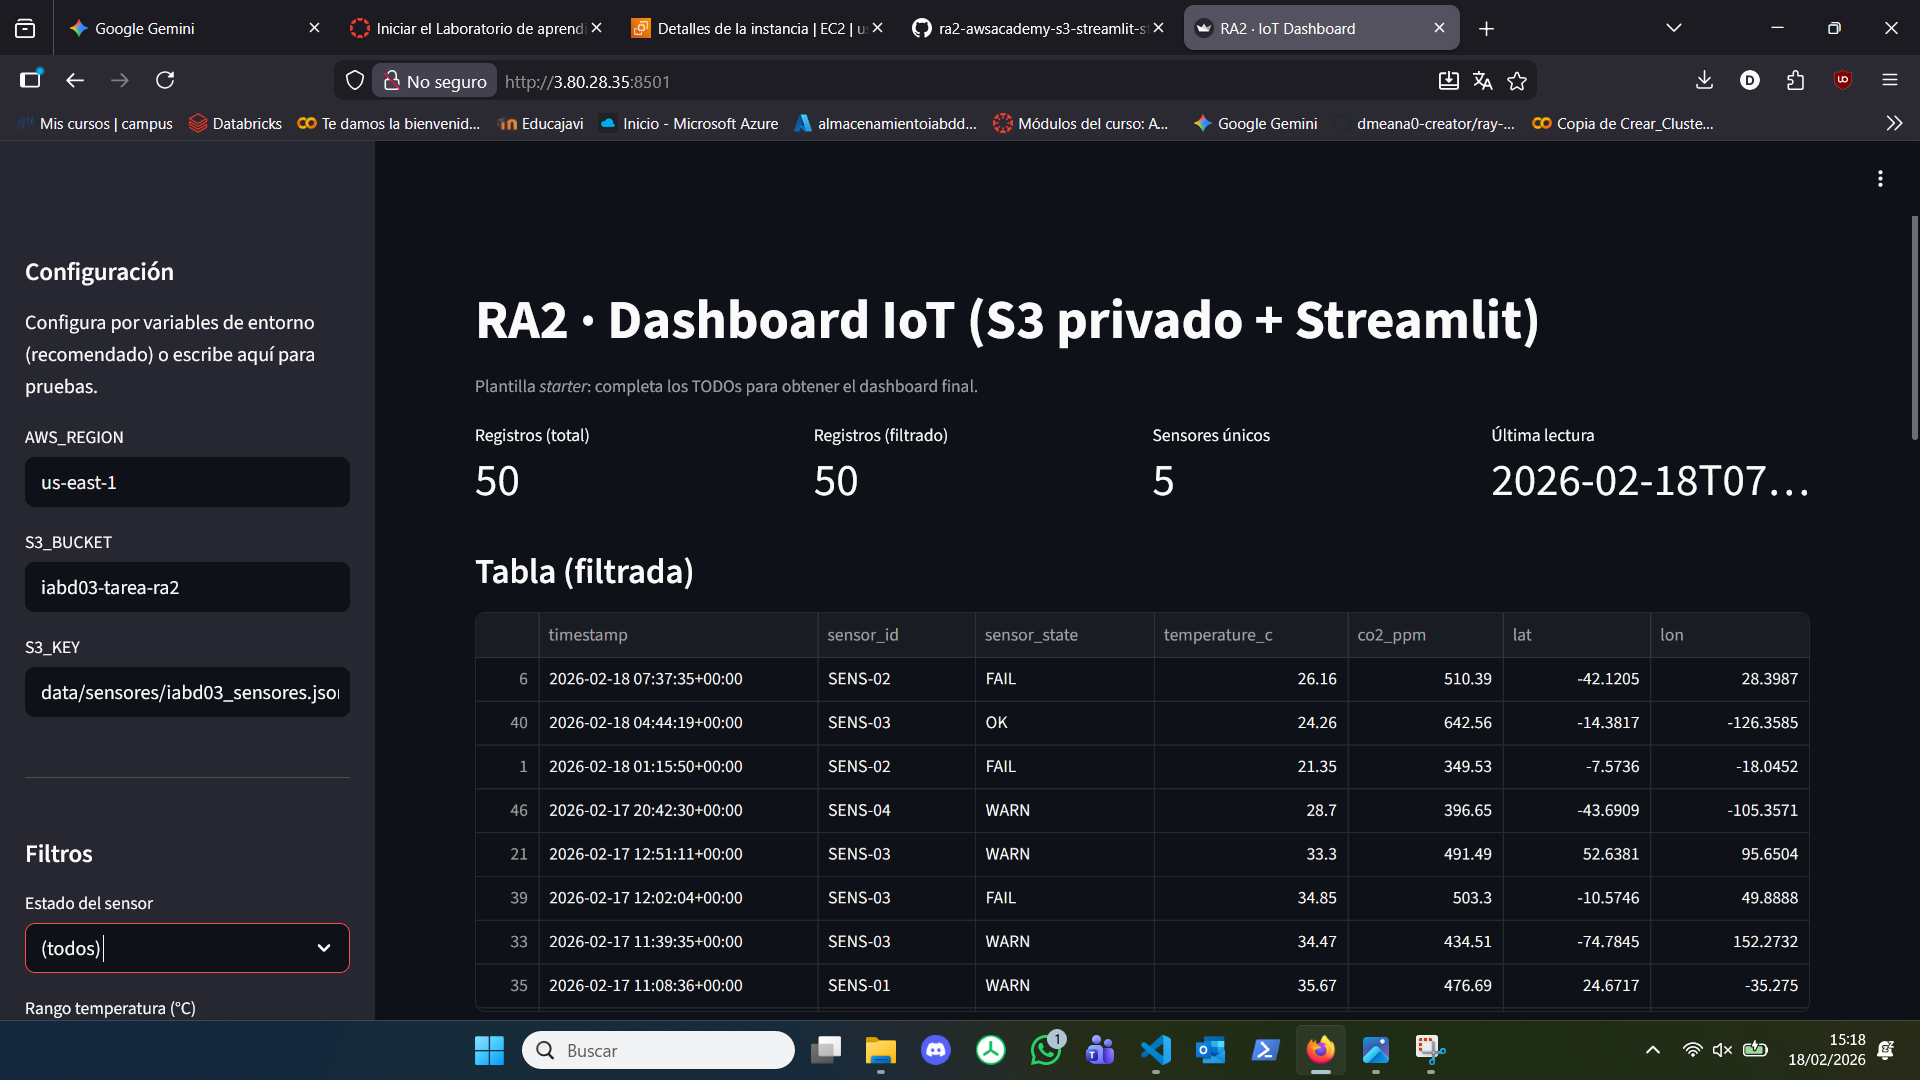
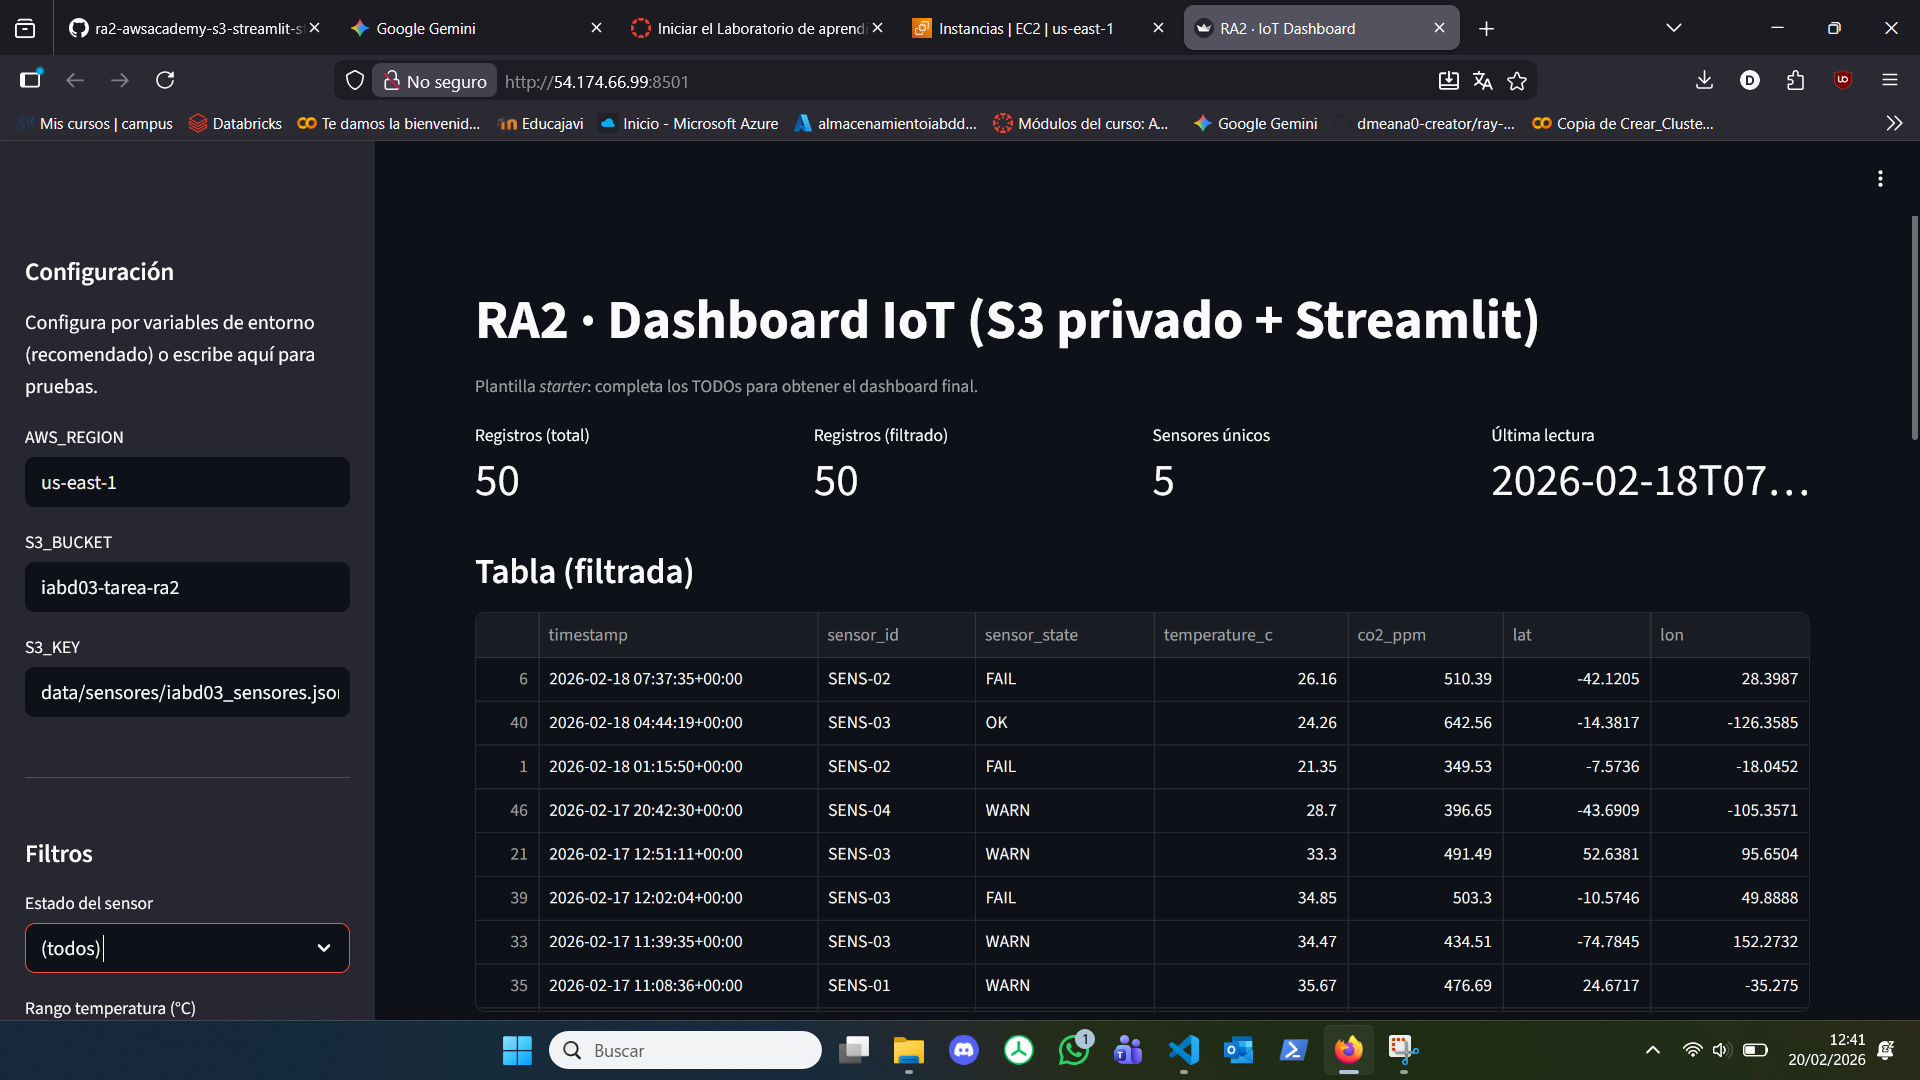
Corección capturas despliegue final en evidencias.md

diff --git a/docs/evidencias.md b/docs/evidencias.md
@@ -110,7 +110,7 @@ Incluye capturas donde se vea:
 - [x] Captura del log (`tail -n 50 streamlit.log` o similar)
 ![Captura del log](../img/streamlit_log.png)
 
-- [x] URL final: `http://IP_PUBLICA_EC2:8501`, en la captura que he hecho `http://3.80.28.35:8501/`
+- [x] URL final: `http://IP_PUBLICA_EC2:8501`, en la captura que he hecho `http://54.174.66.99:8501/`
 
 **URL:** `http://IP_PUBLICA_EC2:8501`
 
